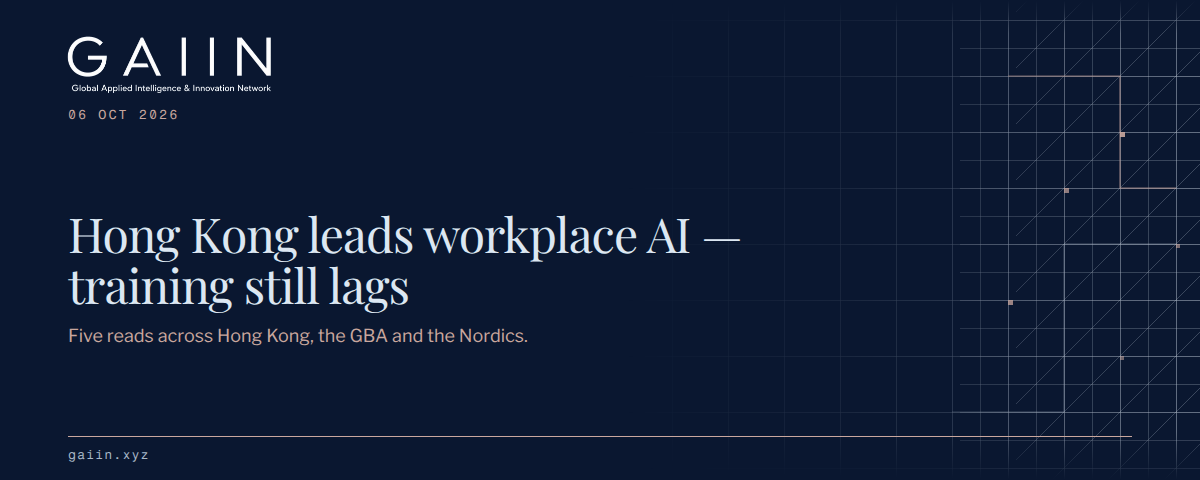
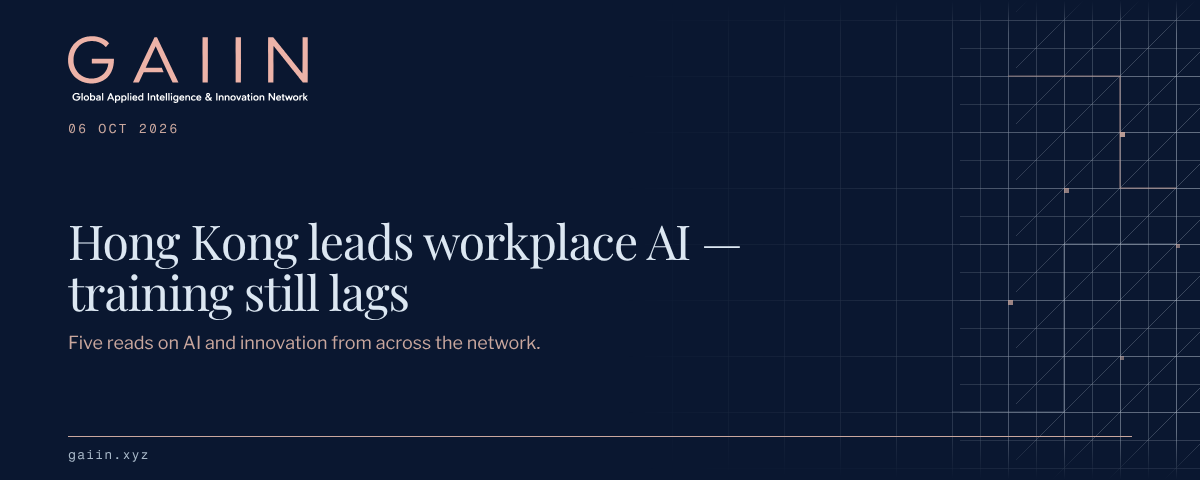
Signal masthead: primary clay lockup, noindex, global hook
- Add robots noindex, nofollow to signal/masthead.html.
- Swap the white lockup PNG for the primary lockup SVG (clay #EDB3A8 letters,
  white #FFFFFF name line; brand kit v1.0.2, Drive file
  gaiin-lockup-clay-white-on-transparent-wide.svg, unmodified).
- Remove the now-unused gaiin-wordmark-white-wide.png.
- Reword the sample hook to global framing.
- Regenerate signal/2026-10-06-hero.png with the export script.

diff --git a/signal/masthead.html b/signal/masthead.html
@@ -3,6 +3,7 @@
 <head>
 <meta charset="utf-8">
 <meta name="viewport" content="width=1200">
+<meta name="robots" content="noindex, nofollow">
 <title>Masthead compositor</title>
 <link rel="stylesheet" href="assets/fonts.css">
 <style>
@@ -63,10 +64,11 @@
 
   .wordmark {
     display: block;
-    width: 240px;
+    width: 252px;
     height: auto;
-    /* PNG has transparent padding. Pull the ink flush with the type column. */
-    margin: 0 0 0 -20px;
+    /* Primary lockup (clay letters, white name line). The SVG canvas has ~41/1698
+       transparent padding; pull the ink flush with the type column. */
+    margin: 10px 0 14px -6px;
   }
 
   .date {
@@ -176,7 +178,7 @@
   </svg>
 
   <header class="brand">
-    <img class="wordmark" src="assets/gaiin-wordmark-white-wide.png" alt="GAIIN" width="956" height="356">
+    <img class="wordmark" src="assets/gaiin-lockup-clay-white-wide.svg" alt="GAIIN — Global Applied Intelligence &amp; Innovation Network" width="1698" height="532">
     <p class="date" data-field="issueDate"></p>
   </header>
 
@@ -202,7 +204,7 @@
 {
   "issueDate": "06 OCT 2026",
   "headline": "Hong Kong leads workplace AI — training still lags",
-  "hook": "Five reads across Hong Kong, the GBA and the Nordics."
+  "hook": "Five reads on AI and innovation from across the network."
 }
 </script>
 <script>

diff --git a/signal/README.md b/signal/README.md
@@ -18,7 +18,7 @@ The same three names can be passed as query parameters. They override the JSON f
 
 Accent is the CSS variable `--signal-accent` in `signal/masthead.html`. The default is dusty rose `#C9A79E`. Site coral `#d9877c` is not used on this artboard.
 
-The wordmark is the official file at `signal/assets/gaiin-wordmark-white-wide.png`. Do not redraw it. The hero does not contain the word Signal. The footer line is `gaiin.xyz`.
+The logo is the official primary lockup (light clay `#EDB3A8` letters, white `#FFFFFF` name line; brand kit v1.0.2) at `signal/assets/gaiin-lockup-clay-white-wide.svg`. Do not redraw, retype or recolour it. The hero does not contain the word Signal. The footer line is `gaiin.xyz`.
 
 ## Export a PNG
 
@@ -47,4 +47,4 @@ await page.locator("#masthead").screenshot({ path: "signal/2026-10-06-hero.png" 
 
 - issueDate: `06 OCT 2026`
 - headline: `Hong Kong leads workplace AI — training still lags`
-- hook: `Five reads across Hong Kong, the GBA and the Nordics.`
+- hook: `Five reads on AI and innovation from across the network.`
